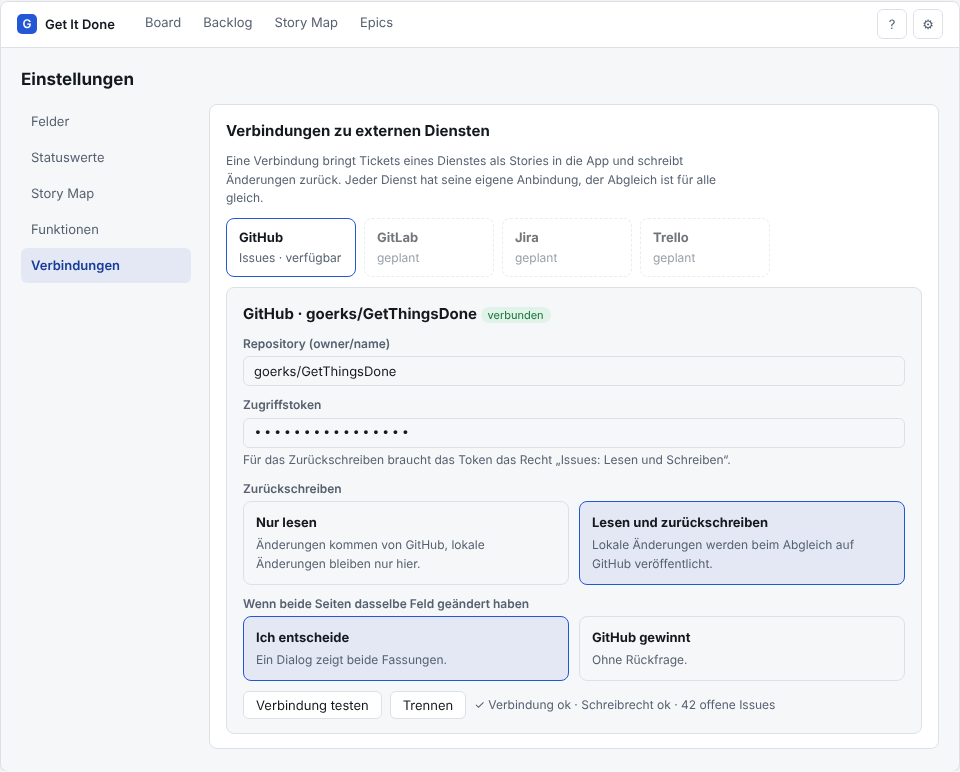
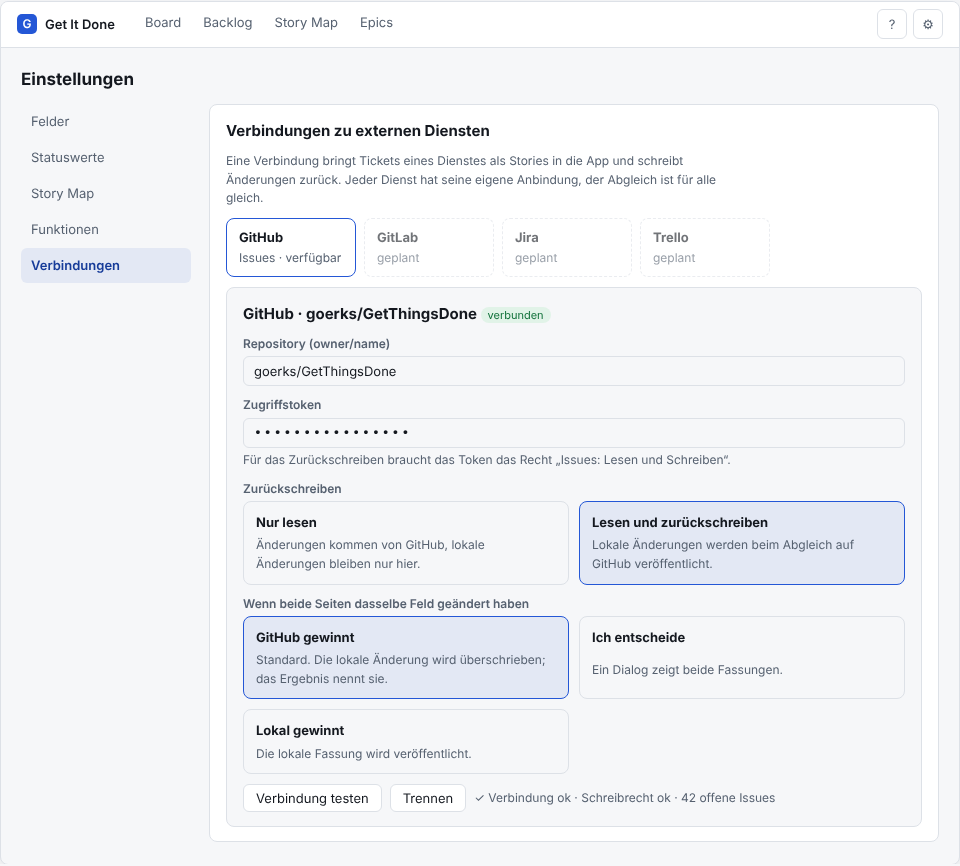
Mockup: GitHub wins is the default conflict rule (#30)
Claude-Session: https://claude.ai/code/session_01PgE77rCnE4skANbn6ds9B7

diff --git a/docs/design/external-sync.html b/docs/design/external-sync.html
@@ -117,12 +117,12 @@ code { font-family: var(--font-mono); font-size: 13px; background: var(--pill); 
 <div class="form"><div class="f"><label>Repository (owner/name)</label><div class="in">goerks/GetThingsDone</div></div>
 <div class="f"><label>Zugriffstoken</label><div class="in in--tok">••••••••••••••••</div><span class="note">Für das Zurückschreiben braucht das Token das Recht „Issues: Lesen und Schreiben“.</span></div>
 <div class="f"><label>Zurückschreiben</label><div class="cols2"><div class="opt"><b>Nur lesen</b><span class="note">Änderungen kommen von GitHub, lokale Änderungen bleiben nur hier.</span></div><div class="opt opt--on"><b>Lesen und zurückschreiben</b><span class="note">Lokale Änderungen werden beim Abgleich auf GitHub veröffentlicht.</span></div></div></div>
-<div class="f"><label>Wenn beide Seiten dasselbe Feld geändert haben</label><div class="cols2"><div class="opt opt--on"><b>Ich entscheide</b><span class="note">Ein Dialog zeigt beide Fassungen.</span></div><div class="opt"><b>GitHub gewinnt</b><span class="note">Ohne Rückfrage.</span></div></div></div>
+<div class="f"><label>Wenn beide Seiten dasselbe Feld geändert haben</label><div class="cols2"><div class="opt opt--on"><b>GitHub gewinnt</b><span class="note">Standard. Die lokale Änderung wird überschrieben; das Ergebnis nennt sie.</span></div><div class="opt"><b>Ich entscheide</b><span class="note">Ein Dialog zeigt beide Fassungen.</span></div><div class="opt"><b>Lokal gewinnt</b><span class="note">Die lokale Fassung wird veröffentlicht.</span></div></div></div>
 <div class="actions"><span class="btn">Verbindung testen</span><span class="btn">Trennen</span><span class="stat">✓ Verbindung ok · Schreibrecht ok · 42 offene Issues</span></div></div></div></div></div></div></div></section>
 <section class="variant"><h3>2 · Backlog: was ist noch nicht auf GitHub?</h3><div id="m2" class="app "><div class="bar"><div class="brand"><span class="logo">G</span>Get It Done</div><div class="nav"><span>Board</span><span class="on">Backlog</span><span>Story Map</span><span>Epics</span></div><div class="tools"><span class="ibtn">?</span><span class="ibtn">⚙</span></div></div> <div class="page"><div class="ph"><b>Backlog</b><span class="stat push">GitHub · letzter Abgleich heute 09:41 · <span class="pill-new">3 Änderungen noch nicht auf GitHub</span></span><span class="btn btn--p">⟳ Abgleichen</span><span class="btn">Neue Story</span></div>
 <div class="rows"><div class="row"><b class="k">S-12</b> Login-Seite <span class="gh">#31</span><span class="pill-new">lokal geändert</span></div><div class="row"><b class="k">S-13</b> Export als CSV <span class="gh">#35</span></div><div class="row"><b class="k">S-14</b> Dunkles Design <span class="gh">#38</span><span class="pill-new">lokal geändert</span></div><div class="row"><b class="k">S-15</b> Neue Idee ohne GitHub <span class="pill-new">nicht auf GitHub</span></div></div>
 <p class="note">Rechtsklick auf eine Story: „Auf GitHub anlegen“ erzeugt dort ein Issue und verknüpft es.</p></div></div></section>
-<section class="variant"><h3>3 · Ergebnis und Konflikt</h3><div id="m3" class="app app--dlg"><div class="bar"><div class="brand"><span class="logo">G</span>Get It Done</div><div class="nav"><span>Board</span><span class="on">Backlog</span><span>Story Map</span><span>Epics</span></div><div class="tools"><span class="ibtn">?</span><span class="ibtn">⚙</span></div></div> <div class="page"><div class="ph"><b>Backlog</b></div><div class="rows"><div class="row">S-12 Login-Seite</div><div class="row">S-13 Export als CSV</div></div></div><div class="scrim"></div>
+<section class="variant"><h3>3 · Ergebnis und Konflikt (bei der Regel „Ich entscheide“)</h3><div id="m3" class="app app--dlg"><div class="bar"><div class="brand"><span class="logo">G</span>Get It Done</div><div class="nav"><span>Board</span><span class="on">Backlog</span><span>Story Map</span><span>Epics</span></div><div class="tools"><span class="ibtn">?</span><span class="ibtn">⚙</span></div></div> <div class="page"><div class="ph"><b>Backlog</b></div><div class="rows"><div class="row">S-12 Login-Seite</div><div class="row">S-13 Export als CSV</div></div></div><div class="scrim"></div>
 <div class="dialog"><h4>Abgleich mit GitHub <span class="x">✕</span></h4>
 <div class="sum"><div><b>1</b><span>neu importiert</span></div><div><b>2</b><span>auf GitHub veröffentlicht</span></div><div><b>1</b><span>Konflikt: bitte entscheiden</span></div></div>
 <div class="rows"><div class="row"><span class="gh">#38</span> veröffentlicht: Titel „Dark mode“ → „Dunkles Design“</div><div class="row"><span class="gh">#35</span> veröffentlicht: Status „Erledigt“ → Issue geschlossen</div></div>
